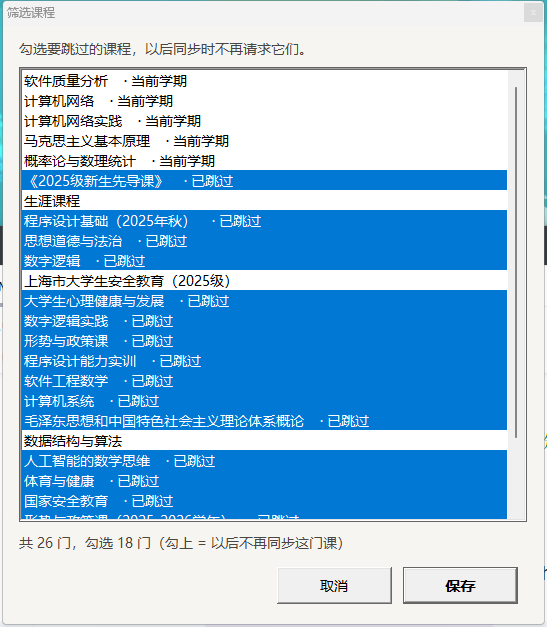
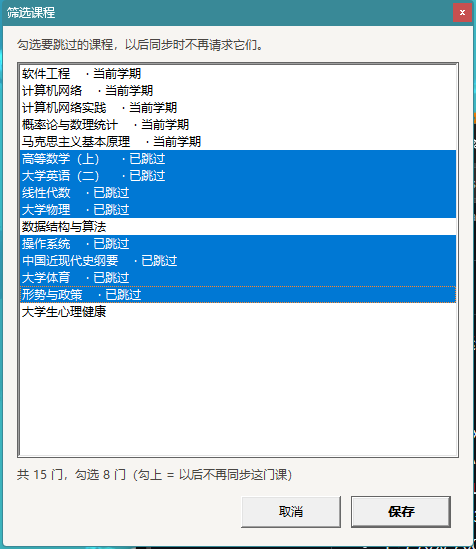
docs: 去掉泄露桌面的玻璃截图，示例图换成通用数据
- 删除 docs/screenshot-glass.png（玻璃效果透出真实桌面）
- screenshot-custom.png / screenshot-courses.png 用通用示例数据重拍，
  不再出现真实作业标题与真实课程名
- 补回「DDL 颜色分级」小节，改写成「颜色由主题里的 RGB 取色器自定义」，
  不再宣称固定的莫兰迪配色方案
- 主题小节与源码表里残留的「莫兰迪」措辞一并改掉

diff --git a/README.md b/README.md
@@ -51,6 +51,19 @@ out\DeskTodo.exe
 
 无法成立的日期（`2月30日`、`2026-02-29`）不会被吞掉，会原样留在标题里。
 
+### DDL 颜色分级（不弹窗，只看颜色）
+到期的紧迫度用颜色区分，右侧显示「逾期 N 天 / 今天 / 剩 N 天」，逾期的行左侧还多一条同色窄边：
+
+| 级别 | 显示 |
+| --- | --- |
+| 已逾期 | 「逾期 N 天」 |
+| 今天到期 | 「今天」 |
+| 3 天内 | 「剩 N 天」 |
+| 更远 | 「剩 N 天」（淡一档） |
+| 已完成 | 整行变淡 + 删除线 |
+
+**没有固定配色方案**：主色（页面背景 / 页边栏 / 字体）和这四级 DDL 颜色都可以在右键菜单 → **主题…** 里用取色器（色相条 + 饱和度/明度方块 + R/G/B/A 滑块 + Hex 读数）自己调，改完立刻生效。默认给的是深/浅两套低饱和起点，你可以按自己喜欢的来。
+
 
 ### 操作
 | 操作 | 方式 |
@@ -102,7 +115,7 @@ out\DeskTodo.exe
 ![自定义配色](docs/screenshot-custom.png)
 
 - **玻璃**：勾上「启用玻璃磨砂」后，窗口用 Win10/11 的亚克力模糊（`SetWindowCompositionAttribute`，未公开 API，取不到就安静退回普通窗口）加整体半透明——透明度就是玻璃配色的 A 通道，默认 200/255。列表和标题条都会淡淡透出后面的桌面，文字仍然实心可读。
-- 改完**立刻生效并写盘**，没有「取消」；想回去点**恢复默认**（回到内置的莫兰迪深色）。
+- 改完**立刻生效并写盘**，没有「取消」；想回去点**恢复默认**（回到内置的深色默认值）。
 - 配色存在 `config.json` 的 `cl_page` / `cl_bar` / `cl_text` / `cl_glass`（都是 `0xRRGGBB` 整数）、`glass`、`glass_a` 里，`theme` 会变成 `2` 表示自定义。
 
 
@@ -213,7 +226,7 @@ out\DeskTodo.exe
 | `src/image.c` | GDI+ 封装：延迟启动、按文件加载、按比例缩放绘制 |
 | `src/sync.c` | 学习通同步：释放内嵌脚本、起 powershell 子进程、按秒轮询进度、合并结果与去重账本 |
 | `src/json.c` | 极简 JSON 解析器（含 `\uXXXX` 与代理对） |
-| `src/theme.c` | 莫兰迪深浅两套调色板、自定义配色推算、玻璃磨砂、DPI 缩放、字号缩放（`sc()` / `fz()`）、字体 |
+| `src/theme.c` | 深/浅两套内置默认调色板、自定义配色推算、玻璃磨砂、DPI 缩放、字号缩放（`sc()` / `fz()`）、字体 |
 | `src/themdlg.c` | 「主题」窗口：页面背景 / 页边栏 / 字体颜色 / 玻璃配色 + 玻璃开关 |
 | `src/colorpick.c` | 自绘 Hsv 取色器（预设色块 / 饱和度明度方块 / 色相条 / Hex 读数 / RGBA 滑块） |
 | `src/app.h` | 共享类型与全部函数原型 |
